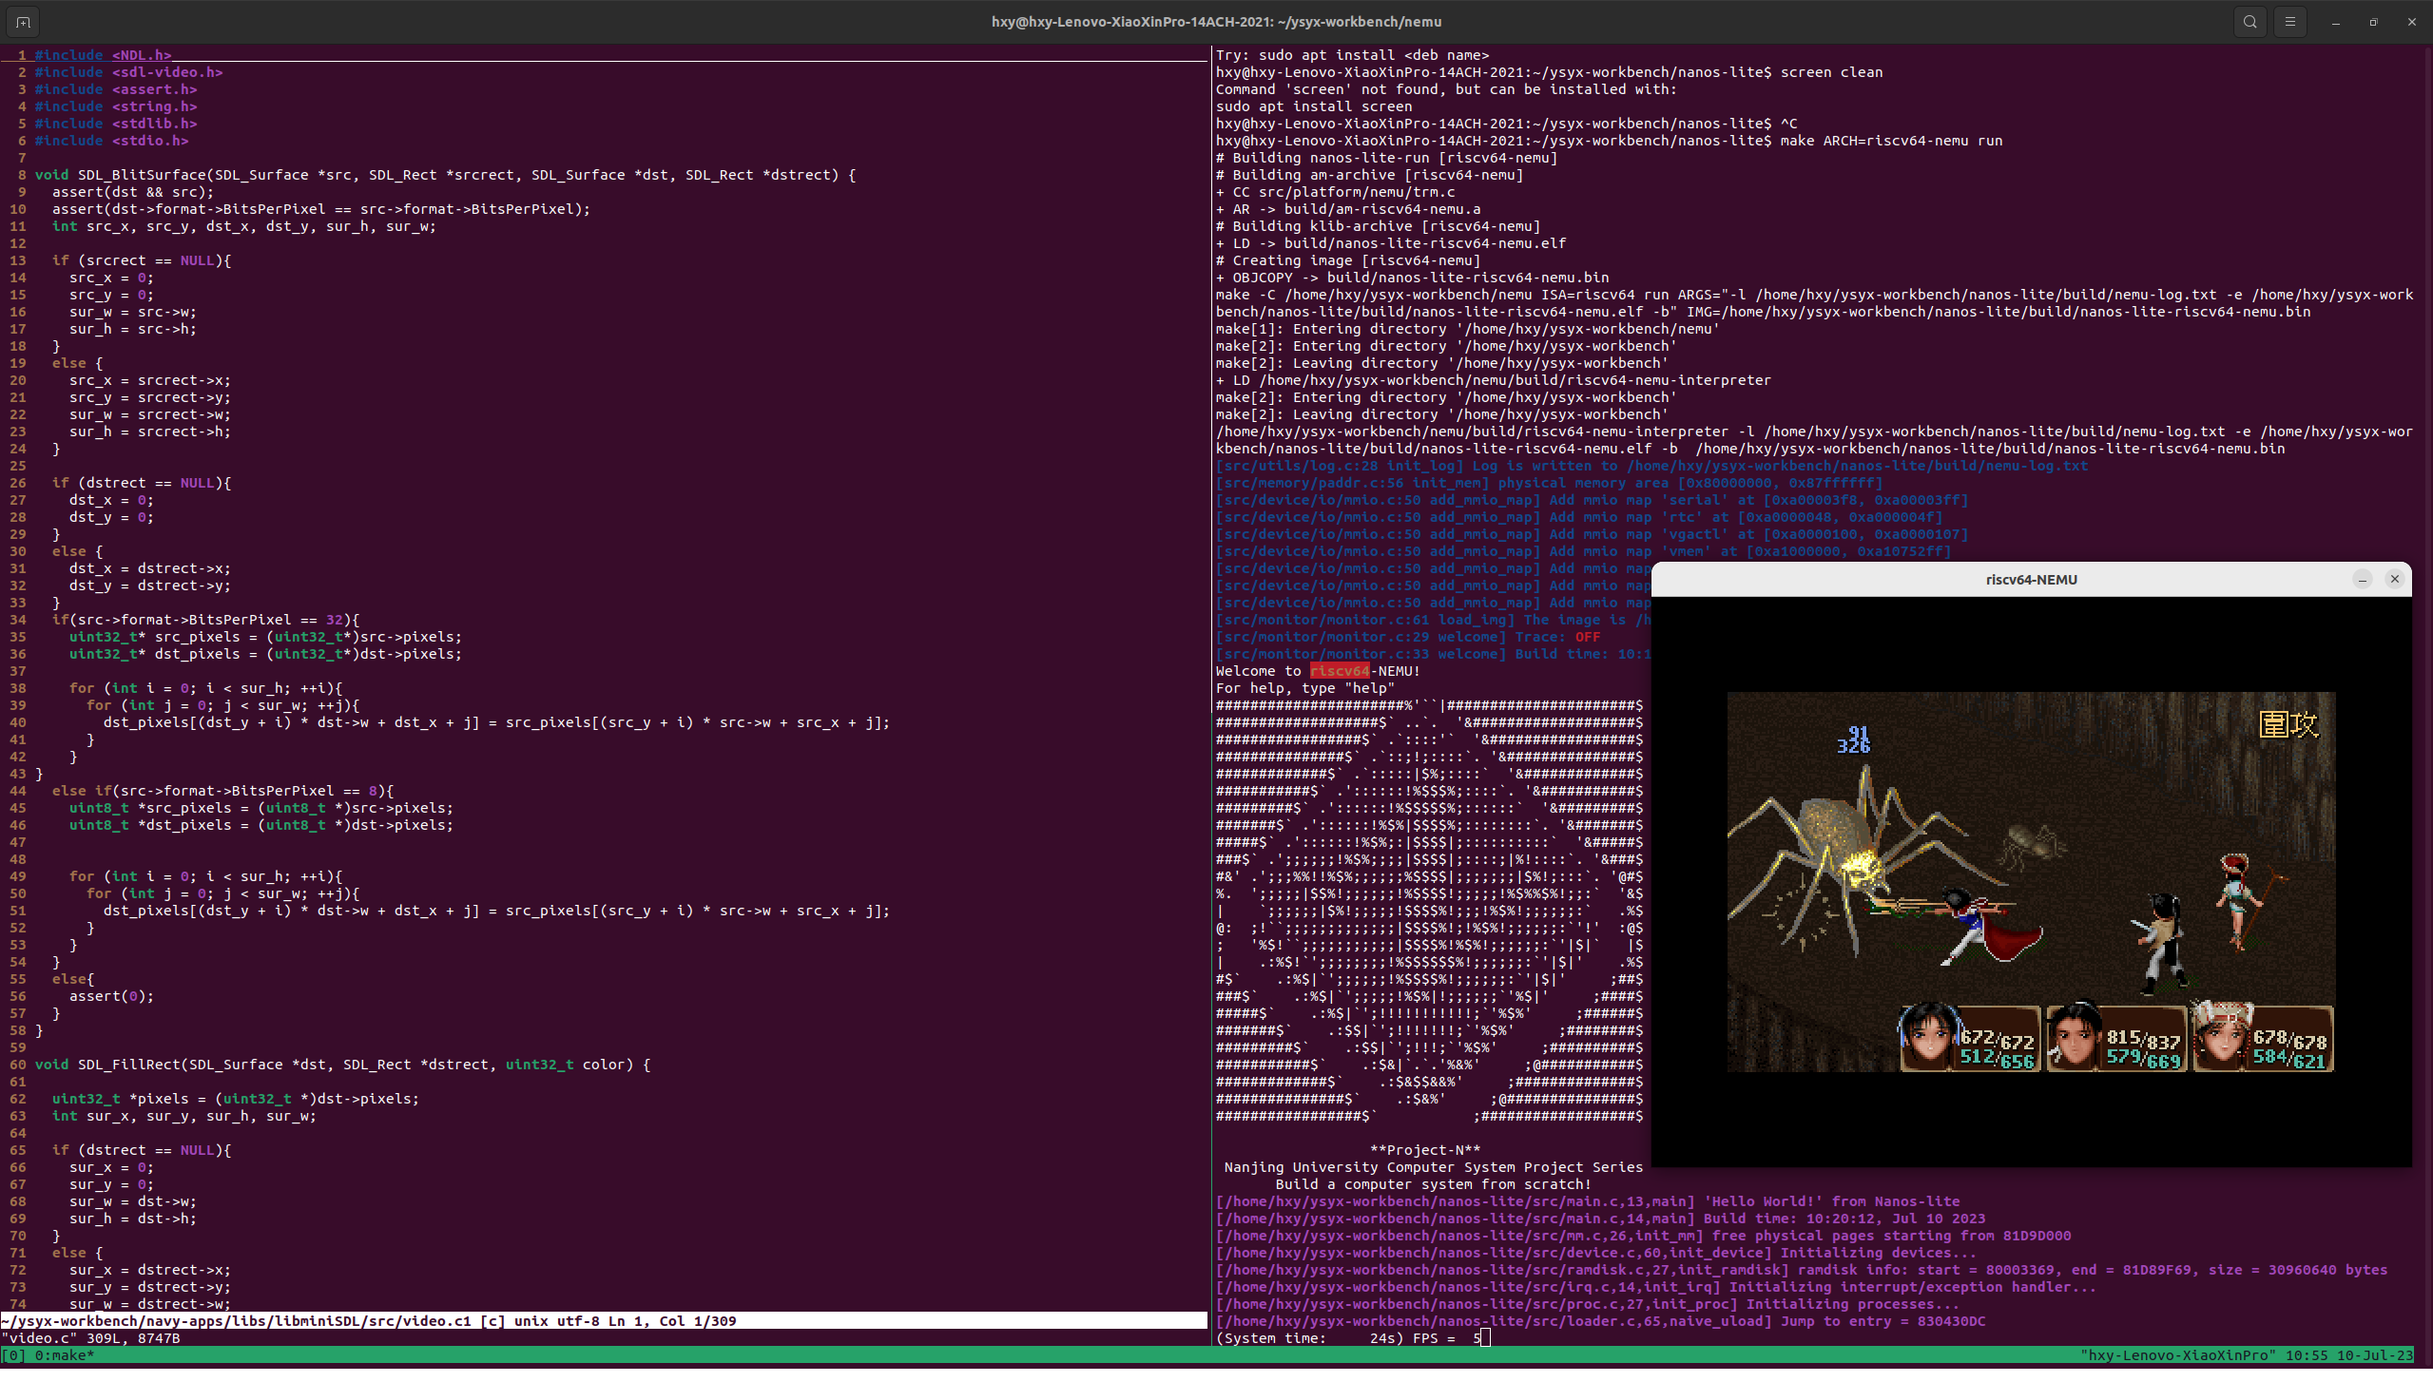
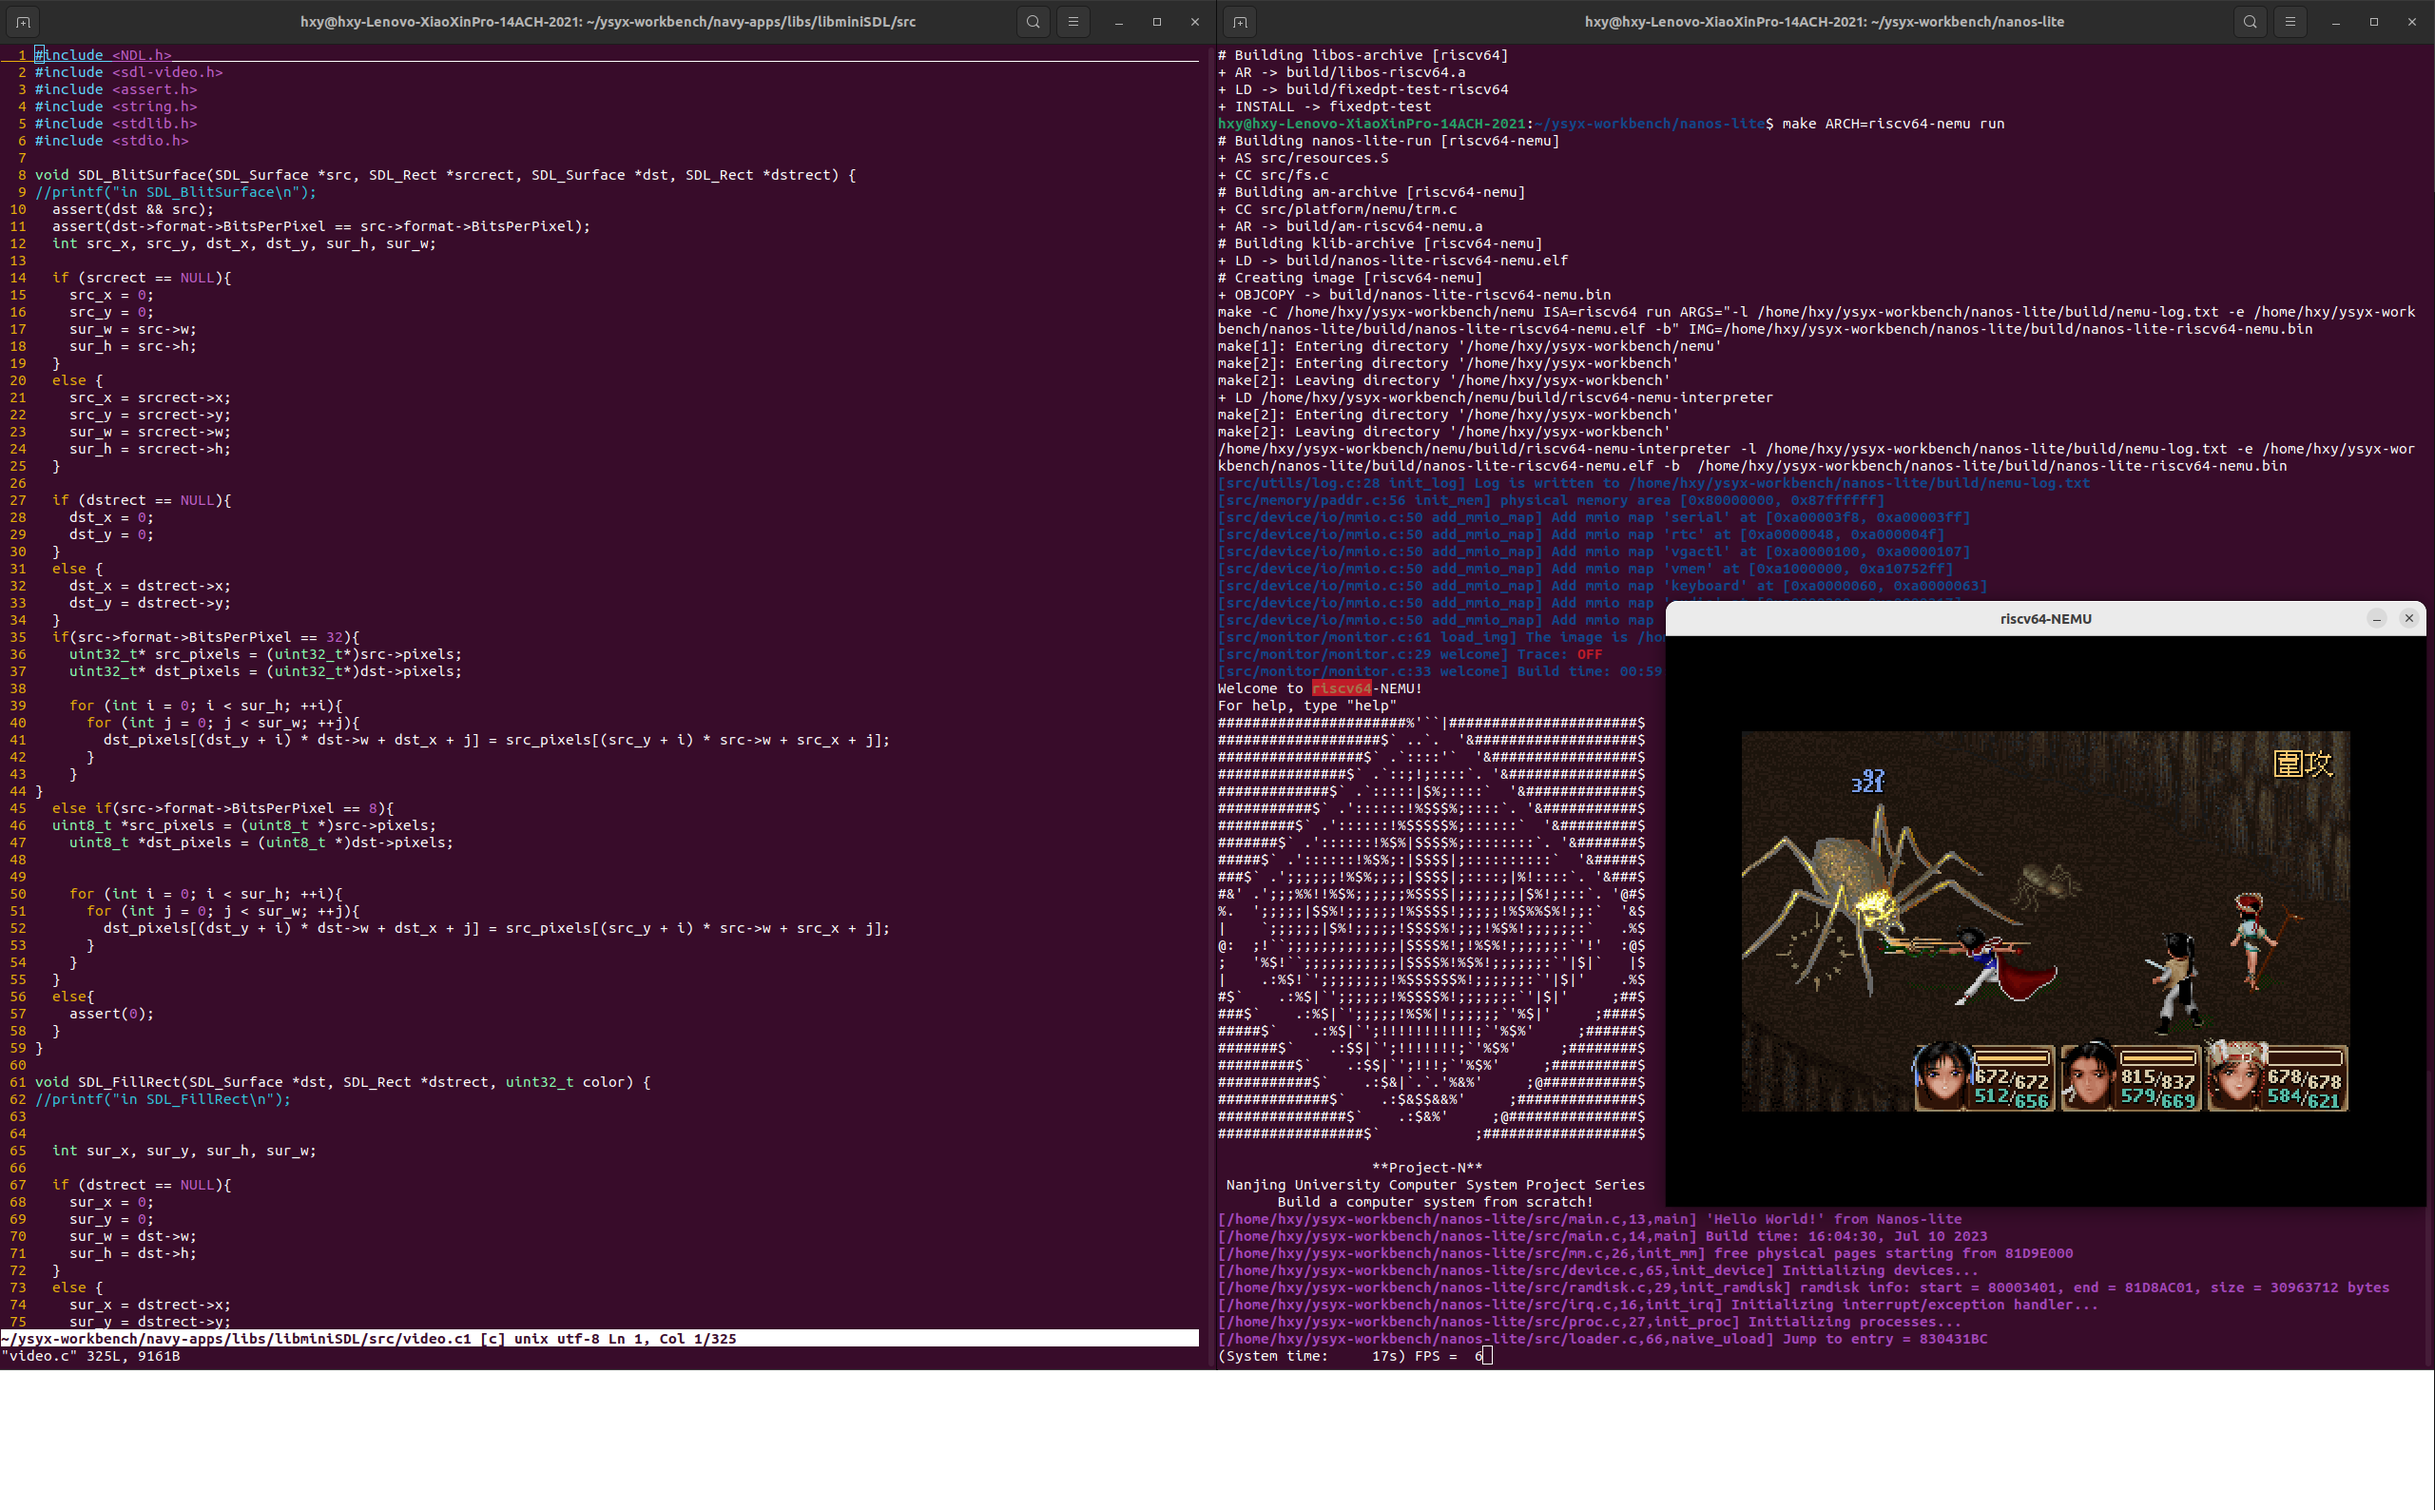
reduce multiply & update doc/

Changed region(s): [[0.0, 0.0, 1.0, 0.9904], [0.2161, 0.588, 0.247, 0.619], [0.2161, 0.4642, 0.247, 0.4952]]

diff --git a/navy-apps/libs/libminiSDL/src/video.c b/navy-apps/libs/libminiSDL/src/video.c
@@ -43,14 +43,20 @@ void SDL_BlitSurface(SDL_Surface *src, SDL_Rect *srcrect, SDL_Surface *dst, SDL_
     }
 }
   else if(src->format->BitsPerPixel == 8){
-	uint8_t *src_pixels = (uint8_t *)src->pixels;
-  	uint8_t *dst_pixels = (uint8_t *)dst->pixels;
-
-
+    uint8_t *src_pixels = (uint8_t *)src->pixels;
+    uint8_t *dst_pixels = (uint8_t *)dst->pixels;
+    
+    uint64_t temp_dst;
+    uint64_t temp_src;
+    temp_dst = dst_y * dst->w + dst_x;
+    temp_src = src_y * src->w + src_x;
+    
     for (int i = 0; i < sur_h; ++i){
       for (int j = 0; j < sur_w; ++j){
-        dst_pixels[(dst_y + i) * dst->w + dst_x + j] = src_pixels[(src_y + i) * src->w + src_x + j];
+        dst_pixels[temp_dst + j] = src_pixels[temp_src + j];
       }
+      temp_dst += dst->w;
+      temp_src += src->w;
     }
 	}
 	else{
@@ -77,23 +83,26 @@ void SDL_FillRect(SDL_Surface *dst, SDL_Rect *dstrect, uint32_t color) {
     sur_h = dstrect->h;
   }
  if(dst->format->BitsPerPixel == 32){
- 	uint32_t *pixels = (uint32_t *)dst->pixels;
-  	for (int i = 0; i < sur_h; ++i){
-   	 for (int j = 0; j < sur_w; ++j){
-      		pixels[(sur_y + i) * dst->w + sur_x + j] = color;
-    		}
-  	}
+   uint32_t *pixels = (uint32_t *)dst->pixels;
+   for (int i = 0; i < sur_h; ++i){
+     for (int j = 0; j < sur_w; ++j){
+       pixels[(sur_y + i) * dst->w + sur_x + j] = color;
+     }
+   }
 }
   else if(dst->format->BitsPerPixel == 8){
-  	uint8_t *pixels = (uint8_t *)dst->pixels;
-  	for (int i = 0; i < sur_h; ++i){
-   	 for (int j = 0; j < sur_w; ++j){
-      		pixels[(sur_y + i) * dst->w + sur_x + j] = color;
-    		}
-  	}
+    uint8_t *pixels = (uint8_t *)dst->pixels;
+    uint64_t temp_dst;
+    temp_dst = sur_y * dst->w + sur_x;
+    for (int i = 0; i < sur_h; ++i){
+      for (int j = 0; j < sur_w; ++j){
+      	pixels[temp_dst + j] = color;
+      }
+      temp_dst += dst->w;
+    }
   }	
   else{
-		assert(0);
+	assert(0);
 	}
 }
 
@@ -105,35 +114,41 @@ void SDL_UpdateRect(SDL_Surface *s, int x, int y, int w, int h) {
 //printf("in SDL_UpdateRect\n");
 	if(s->format->BitsPerPixel == 32){
 	  if(w == 0 && h == 0 && x ==0 && y == 0){
-		  NDL_DrawRect((uint32_t *)s->pixels, 0, 0, s->w, s->h);
-		  return;
+	    NDL_DrawRect((uint32_t *)s->pixels, 0, 0, s->w, s->h);
+	    return;
 	  }
   
-    uint32_t *pixels = malloc(sizeof(uint32_t) * w * h);
-    assert(pixels);
-	  uint32_t *surf_pix = (uint32_t *)s->pixels;
-		for (int i = 0; i < h; i++){
-		  memcpy(&pixels[i * w],&surf_pix[(y + i) * s->w + x],sizeof(uint32_t) * w);
-		}
-		NDL_DrawRect(pixels, x, y, w, h);
-		free(pixels);
+	uint32_t *pixels = malloc(sizeof(uint32_t) * w * h);
+	assert(pixels);
+	uint32_t *surf_pix = (uint32_t *)s->pixels;
+	  for (int i = 0; i < h; i++){
+	    memcpy(&pixels[i * w],&surf_pix[(y + i) * s->w + x],sizeof(uint32_t) * w);
+	  }
+	NDL_DrawRect(pixels, x, y, w, h);
+	free(pixels);
 	}
 	else if(s->format->BitsPerPixel == 8){
-		if(w == 0 && h == 0 && x ==0 && y == 0){
-			w = s->w; h = s->h;
-		}
-		uint32_t *pixels = malloc(sizeof(uint32_t) * w * h);
-		assert(pixels);
-		uint8_t *src_pix = (uint8_t *)s->pixels;
-
-		for (int i = 0; i < h; i++){
-			for (int j = 0; j < w; j++){
-				pixels[i * w + j] = color_sequence(&(s->format->palette->colors[src_pix[(y + i) * s->w + x + j]]));
-
-			}
-		}
-		NDL_DrawRect(pixels, x, y, w, h);
-		free(pixels);
+	  if(w == 0 && h == 0 && x ==0 && y == 0){
+	    w = s->w; h = s->h;
+	  }
+	  int size = w*h;
+	  uint32_t *pixels = malloc(sizeof(uint32_t) *size);
+	  assert(pixels);
+	  uint8_t *src_pix = (uint8_t *)s->pixels;
+		
+	  uint64_t temp_dst;
+	  uint64_t temp_src;
+	  temp_src = y * s->w + x;
+	  temp_dst = 0;
+	  for (int i = 0; i < h; i++){
+	    for (int j = 0; j < w; j++){
+	      pixels[temp_dst + j] = color_sequence(&(s->format->palette->colors[src_pix[temp_src + j]]));
+	    }
+	    temp_dst += w;
+	    temp_src += s->w;
+	  }
+	  NDL_DrawRect(pixels, x, y, w, h);
+	  free(pixels);
 	}
 	else{
 		assert(0);
